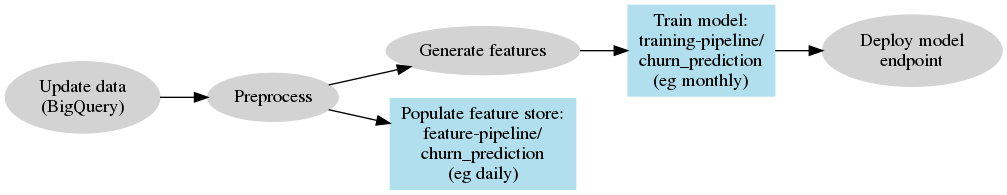
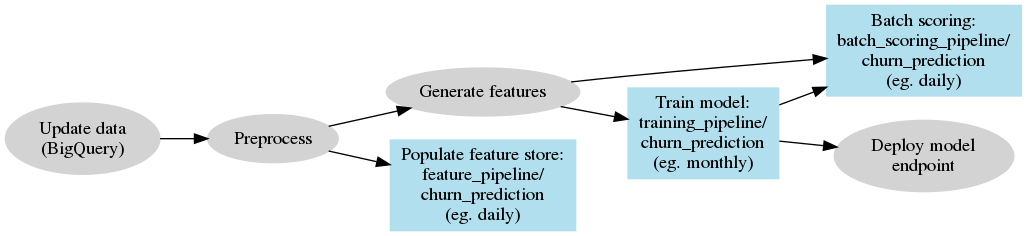
Add batch scoring

diff --git a/batch_score.py b/batch_score.py
@@ -1,0 +1,49 @@
+"""
+Script to perform batch scoring.
+"""
+import os
+import pandas_gbq
+import pickle
+import time
+import lightgbm as lgb
+from utils.constants import FEATURE_COLS
+from utils.preprocess import generate_features
+from pyspark.sql import SparkSession
+
+OUTPUT_MODEL_NAME = os.getenv('OUTPUT_MODEL_NAME')
+DEST_BIGQUERY_PROJECT = os.getenv("RAW_BIGQUERY_PROJECT")
+DEST_BIGQUERY_DATASET = os.getenv("RAW_BIGQUERY_DATASET")
+DEST_SUBSCRIBER_SCORE_TABLE = os.getenv("DEST_SUBSCRIBER_SCORE_TABLE")
+
+
+if __name__ == '__main__':
+    with SparkSession.builder.appName("BatchScoring").getOrCreate() as spark:
+        spark.sparkContext.setLogLevel("FATAL")
+
+        start = time.time()
+        print("\tLoading active subscribers")
+        subscriber_df = generate_features(spark)
+        subscriber_pandasdf = (
+            subscriber_df
+            .filter(subscriber_df["Churn"] == 0)
+            .drop("Churn")
+            .toPandas()
+        )
+        print("\tTime taken = {:.2f} min".format((time.time() - start) / 60))
+        print("\tNumber of active subscribers = {}".format(subscriber_pandasdf.shape[0]))
+
+    print("\tLoading model")
+    with open("/artefact/" + OUTPUT_MODEL_NAME, "rb") as model_file:
+        gbm = pickle.load(model_file)
+
+    print("\tScoring")
+    subscriber_pandasdf["Prob"] = gbm.predict(subscriber_pandasdf[FEATURE_COLS])
+
+    start = time.time()
+    print("\tSaving scores to BigQuery")
+    subscriber_pandasdf[["User_id", "Prob"]].to_gbq(
+        f"{DEST_BIGQUERY_DATASET}.{DEST_SUBSCRIBER_SCORE_TABLE}",
+        project_id=DEST_BIGQUERY_PROJECT,
+        if_exists="replace",
+    )
+    print("\tTime taken = {:.2f} min".format((time.time() - start) / 60))

diff --git a/train.py b/train.py
@@ -7,7 +7,7 @@ import pickle
 import lightgbm as lgb
 from sklearn.model_selection import train_test_split
 from sklearn import metrics
-from utils.constants import AREA_CODES, STATES, SUBSCRIBER_FEATURES
+from utils.constants import FEATURE_COLS
 from utils.preprocess import generate_features
 from pyspark.sql import SparkSession
 
@@ -20,17 +20,17 @@ OUTPUT_MODEL_NAME = os.getenv('OUTPUT_MODEL_NAME')
 
 
 if __name__ == '__main__':
-    print("\tGenerate features")
+    print("\tGenerating features")
     with SparkSession.builder.appName("Preprocessing").getOrCreate() as spark:
         spark.sparkContext.setLogLevel("FATAL")
-        model_data = generate_features(spark).toPandas()
+        model_data = (
+            generate_features(spark)
+            .drop("User_id")
+            .toPandas()
+        )
 
-    print("\tSplit train and validation data")
+    print("\tSplitting train and validation data")
     TARGET_COL = "Churn"
-    FEATURE_COLS = SUBSCRIBER_FEATURES + \
-        [f"Area_Code_{area_code}" for area_code in AREA_CODES] + \
-        [f"State_{state}" for state in STATES]
-
     X = model_data[FEATURE_COLS].values
     y = model_data[TARGET_COL].values
     X_train, X_val, y_train, y_val = train_test_split(
@@ -44,11 +44,11 @@ if __name__ == '__main__':
     )
     gbm.fit(X_train, y_train)
 
-    print("\tSave model")
+    print("\tSaving model")
     with open("/artefact/" + OUTPUT_MODEL_NAME, "wb") as model_file:
         pickle.dump(gbm, model_file)
 
-    print("\tPredict using validation data")
+    print("\tEvaluating using validation data")
     y_prob = gbm.predict_proba(X_val)[:, 1]
     y_pred = (y_prob > 0.5).astype(int)
     acc = metrics.accuracy_score(y_val, y_pred)

diff --git a/serve.py b/serve.py
@@ -17,10 +17,9 @@ from utils.constants import AREA_CODES, STATES, SUBSCRIBER_FEATURES
 
 SUBSCRIBER_FS = "subscriber_fs"
 OUTPUT_MODEL_NAME = "lgb_model.pkl"
+SERVER_PORT = os.environ.get("SERVER_PORT", "50051")
 
 _ONE_DAY_IN_SECONDS = 60 * 60 * 24
-
-SERVER_PORT = os.environ.get("SERVER_PORT", "50051")
 
 
 class PredictorService(serve_pb2_grpc.PredictorServicer):

diff --git a/utils/constants.py b/utils/constants.py
@@ -71,3 +71,7 @@ SUBSCRIBER_FEATURES = [
     'Intl_Mins',
     'Intl_Calls',
 ]
+
+FEATURE_COLS = SUBSCRIBER_FEATURES + \
+    [f"Area_Code_{area_code}" for area_code in AREA_CODES] + \
+    [f"State_{state}" for state in STATES]

diff --git a/utils/preprocess.py b/utils/preprocess.py
@@ -98,6 +98,4 @@ def generate_features(spark):
             F.when(F.col("State") == state, 1).otherwise(0)
         )
     joined_df = joined_df.drop("State")
-
-    joined_df = joined_df.drop("User_id")
     return joined_df
